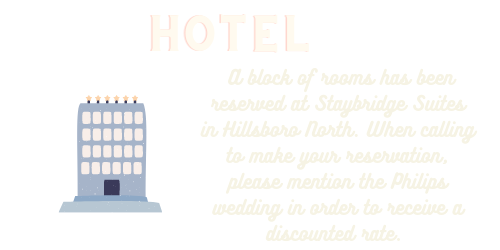
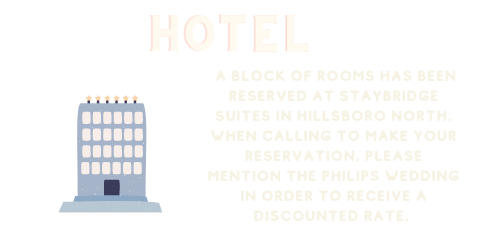
update images with new fonts

Changed region(s): [[0.42, 0.588, 0.93, 0.98], [0.39, 0.28, 0.96, 0.56]]

diff --git a/src/views/Accommodations.vue b/src/views/Accommodations.vue
@@ -1,7 +1,8 @@
 <template>
     <div class="accoms-container">
         <div class="header-container">
-            <img src="../assets/accoms.svg">
+        </div>
+        <div class="camping-message">
         </div>
         <div class="accoms-options-container">
             <div class="camper">
@@ -12,11 +13,21 @@
             </div>
             <div class="hotel">
             </div>
+            <div class="grand-lodge" @click="goToGrandLodge()">
+            </div>
         </div>
     </div>
 </template>
 
 <script>
+export default {
+  name: "Accommodations",
+  methods: {
+    goToGrandLodge() {
+      window.open("https://www.mcmenamins.com/grand-lodge", '_blank').focus();
+    }
+  },
+}
 
 </script>
 
@@ -30,9 +41,11 @@
   }
 }
 .header-container {
+  background: transparent url(../assets/camping-header.png) 50% no-repeat;
+  padding: 150px 250px;
+  background-size: 100% 100%;
   @media (max-width: 600px) {
-    height: 180px;
-    padding-right: 5px;
+    padding: 85px 300px;
   }
 }
 .header-container img {
@@ -48,8 +61,7 @@
   padding: 150px 250px;
     @media (max-width: 600px) {
       width: 170px;
-      background-size: 65% 55%;
-      padding-right: 50px;
+      background-size: 65% 70%;
   }
 }
 .hotel {
@@ -57,8 +69,17 @@
   padding: 150px 250px; 
     @media (max-width: 600px) {
       width: 170px;
-      background-size: 65% 55%;
-      padding-right: 50px;
+      background-size: 65% 80%;
+  }
+}
+.grand-lodge {
+  background: transparent url(../assets/grand-lodge.png) 50% no-repeat;
+  padding: 150px 250px; 
+  cursor: pointer;
+  z-index: 2;
+    @media (max-width: 600px) {
+      width: 170px;
+      background-size: 65% 80%;
   }
 }
 .rv {
@@ -66,8 +87,7 @@
   padding: 150px 250px;
     @media (max-width: 600px) {
       width: 170px;
-      background-size: 65% 55%;
-      padding-right: 50px;
+      background-size: 65% 80%;
   }
 }
 .tent {
@@ -75,8 +95,7 @@
   padding: 150px 250px;
     @media (max-width: 600px) {
       width: 170px;
-      background-size: 65% 55%;
-      padding-right: 50px;
+      background-size: 65% 80%;
   }
 }
 .accoms-options-container {
@@ -86,6 +105,17 @@
     justify-content: center;
     @media (max-width: 600px) {
       flex-direction: column;
+  }
+}
+.camping-message {
+    background: transparent url(../assets/camping-message-desktop.png) 50% no-repeat;
+    padding: 140px 530px;
+    @media (max-width: 600px) {
+      background: transparent url(../assets/camping-message.png) 50% no-repeat;
+      padding: 100px 250px;
+      display: flex;
+      align-content: center;
+      background-size: 85%;
   }
 }
 </style>

diff --git a/src/views/Home.vue b/src/views/Home.vue
@@ -39,7 +39,7 @@ export default {
         const el = document.getElementById("lodging");
         if (el) {
         // Use el.scrollIntoView() to instantly scroll to the element
-        el.scrollTop = 0;
+        el.scrollIntoView({behavior: 'smooth'});
       }
     }
   }
